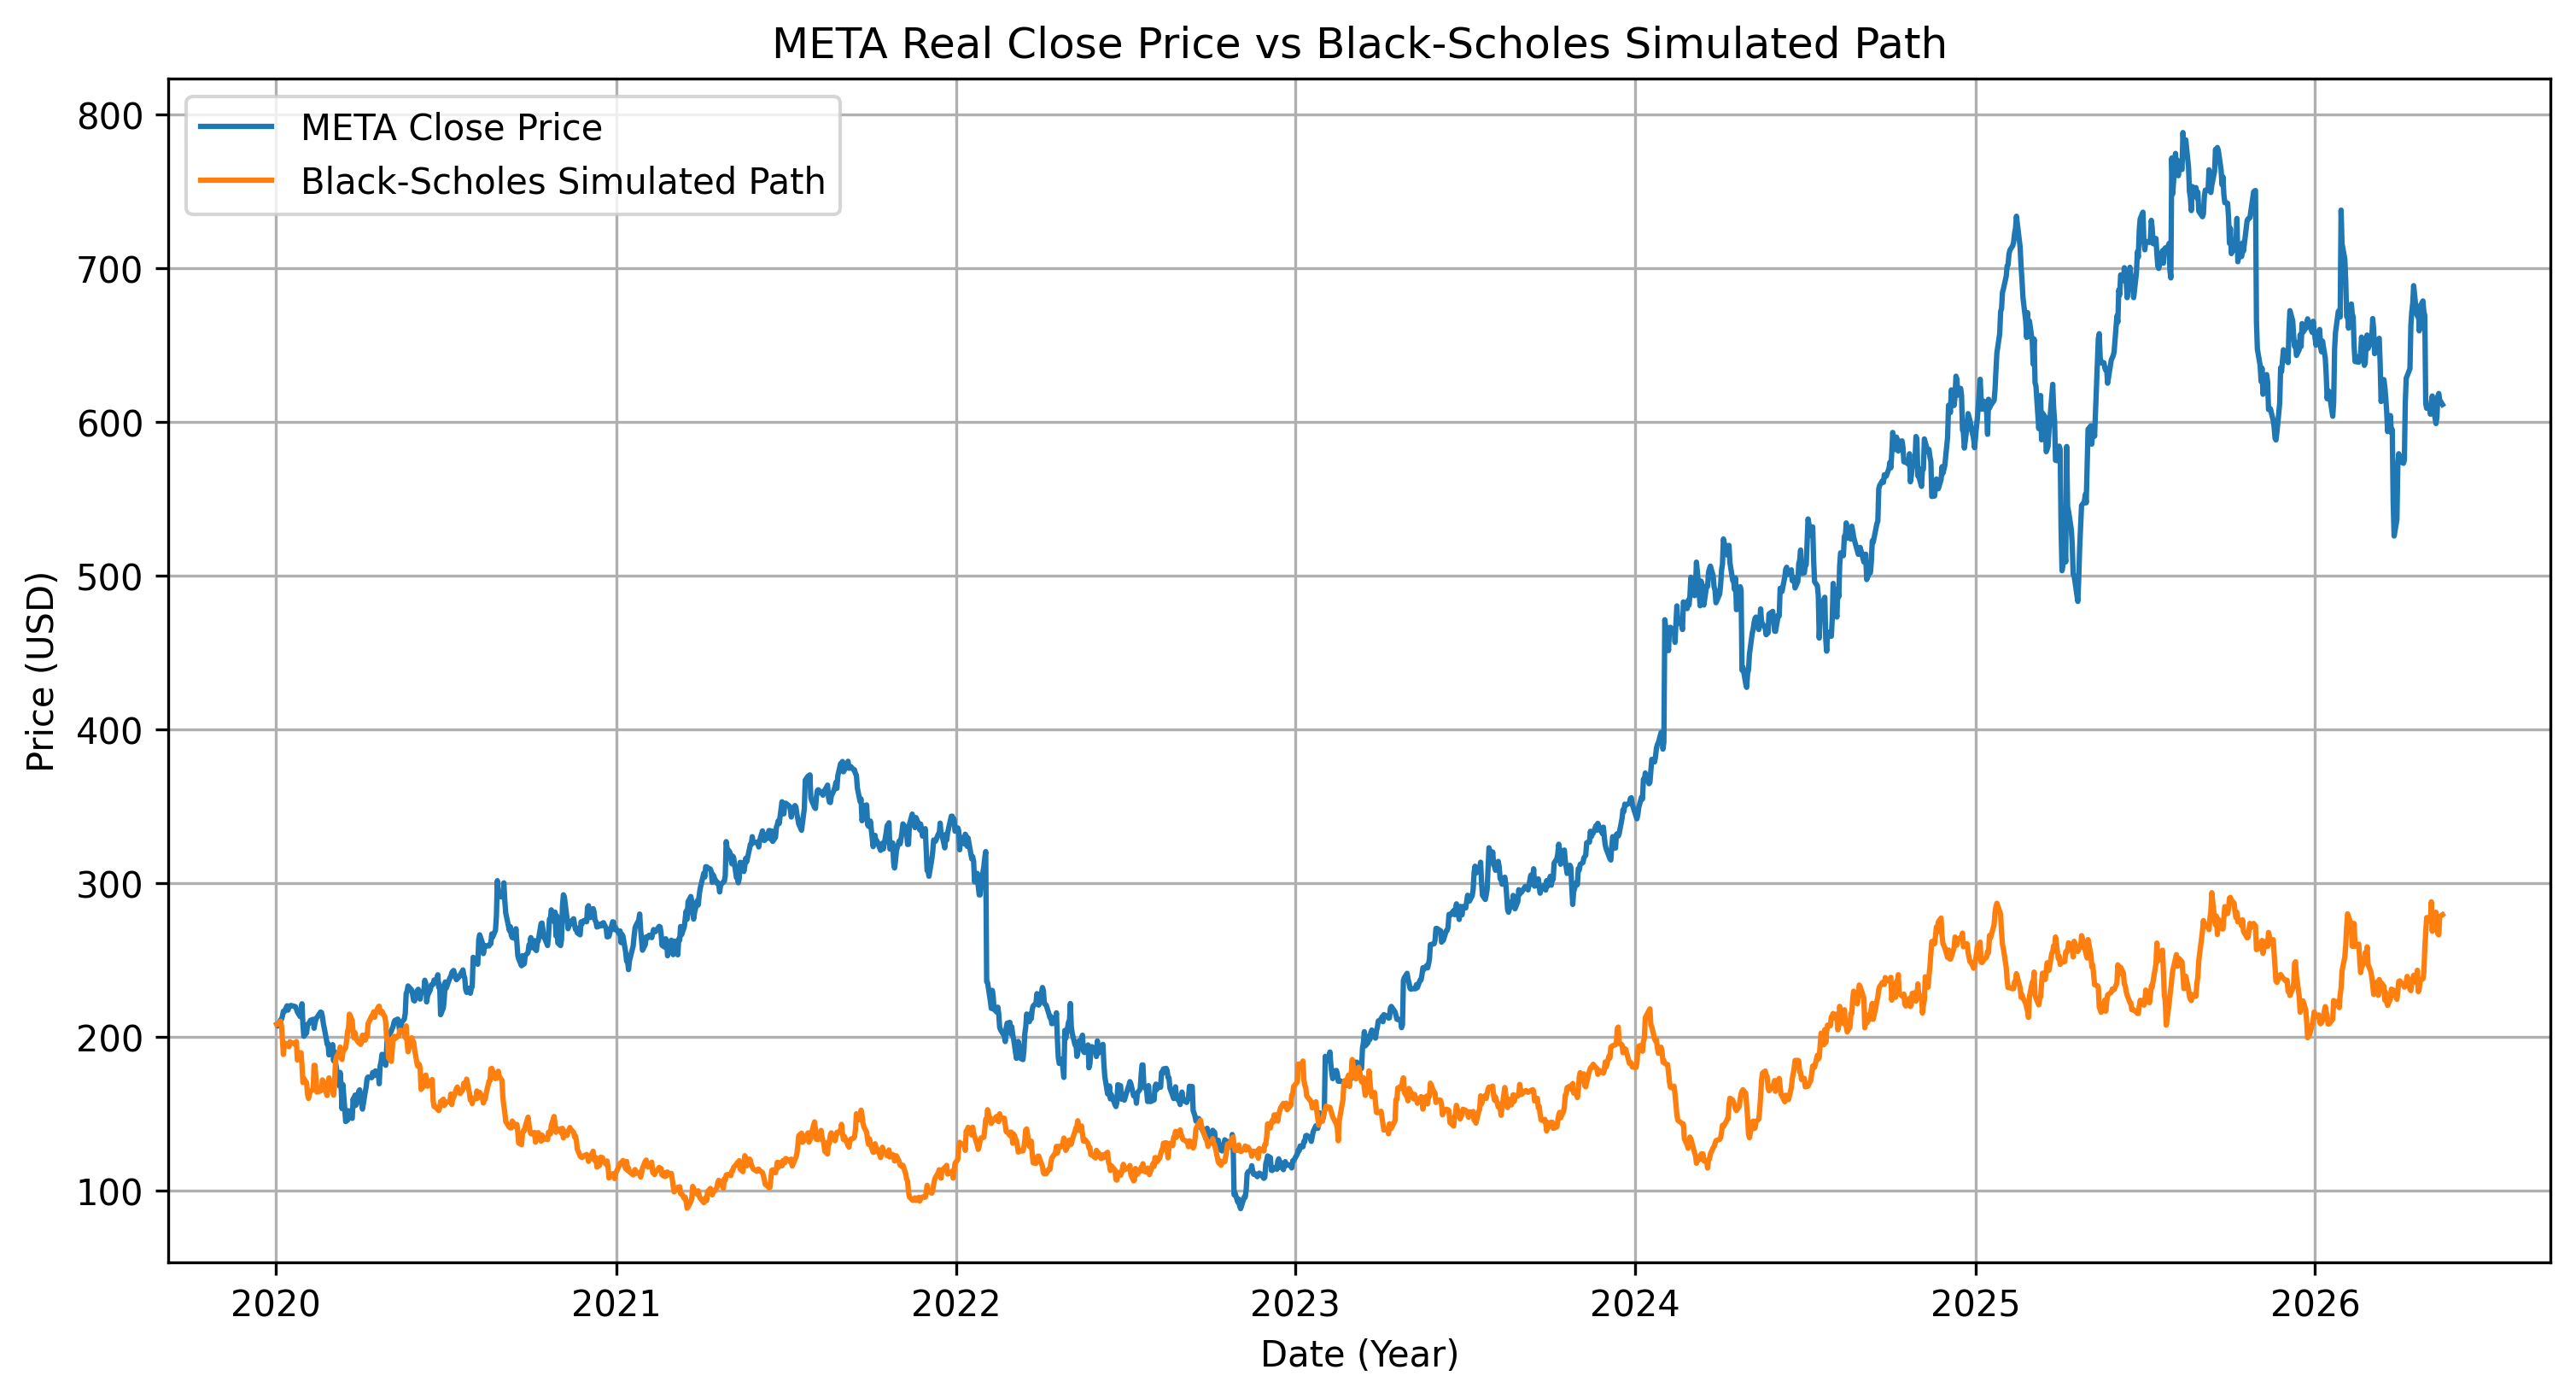
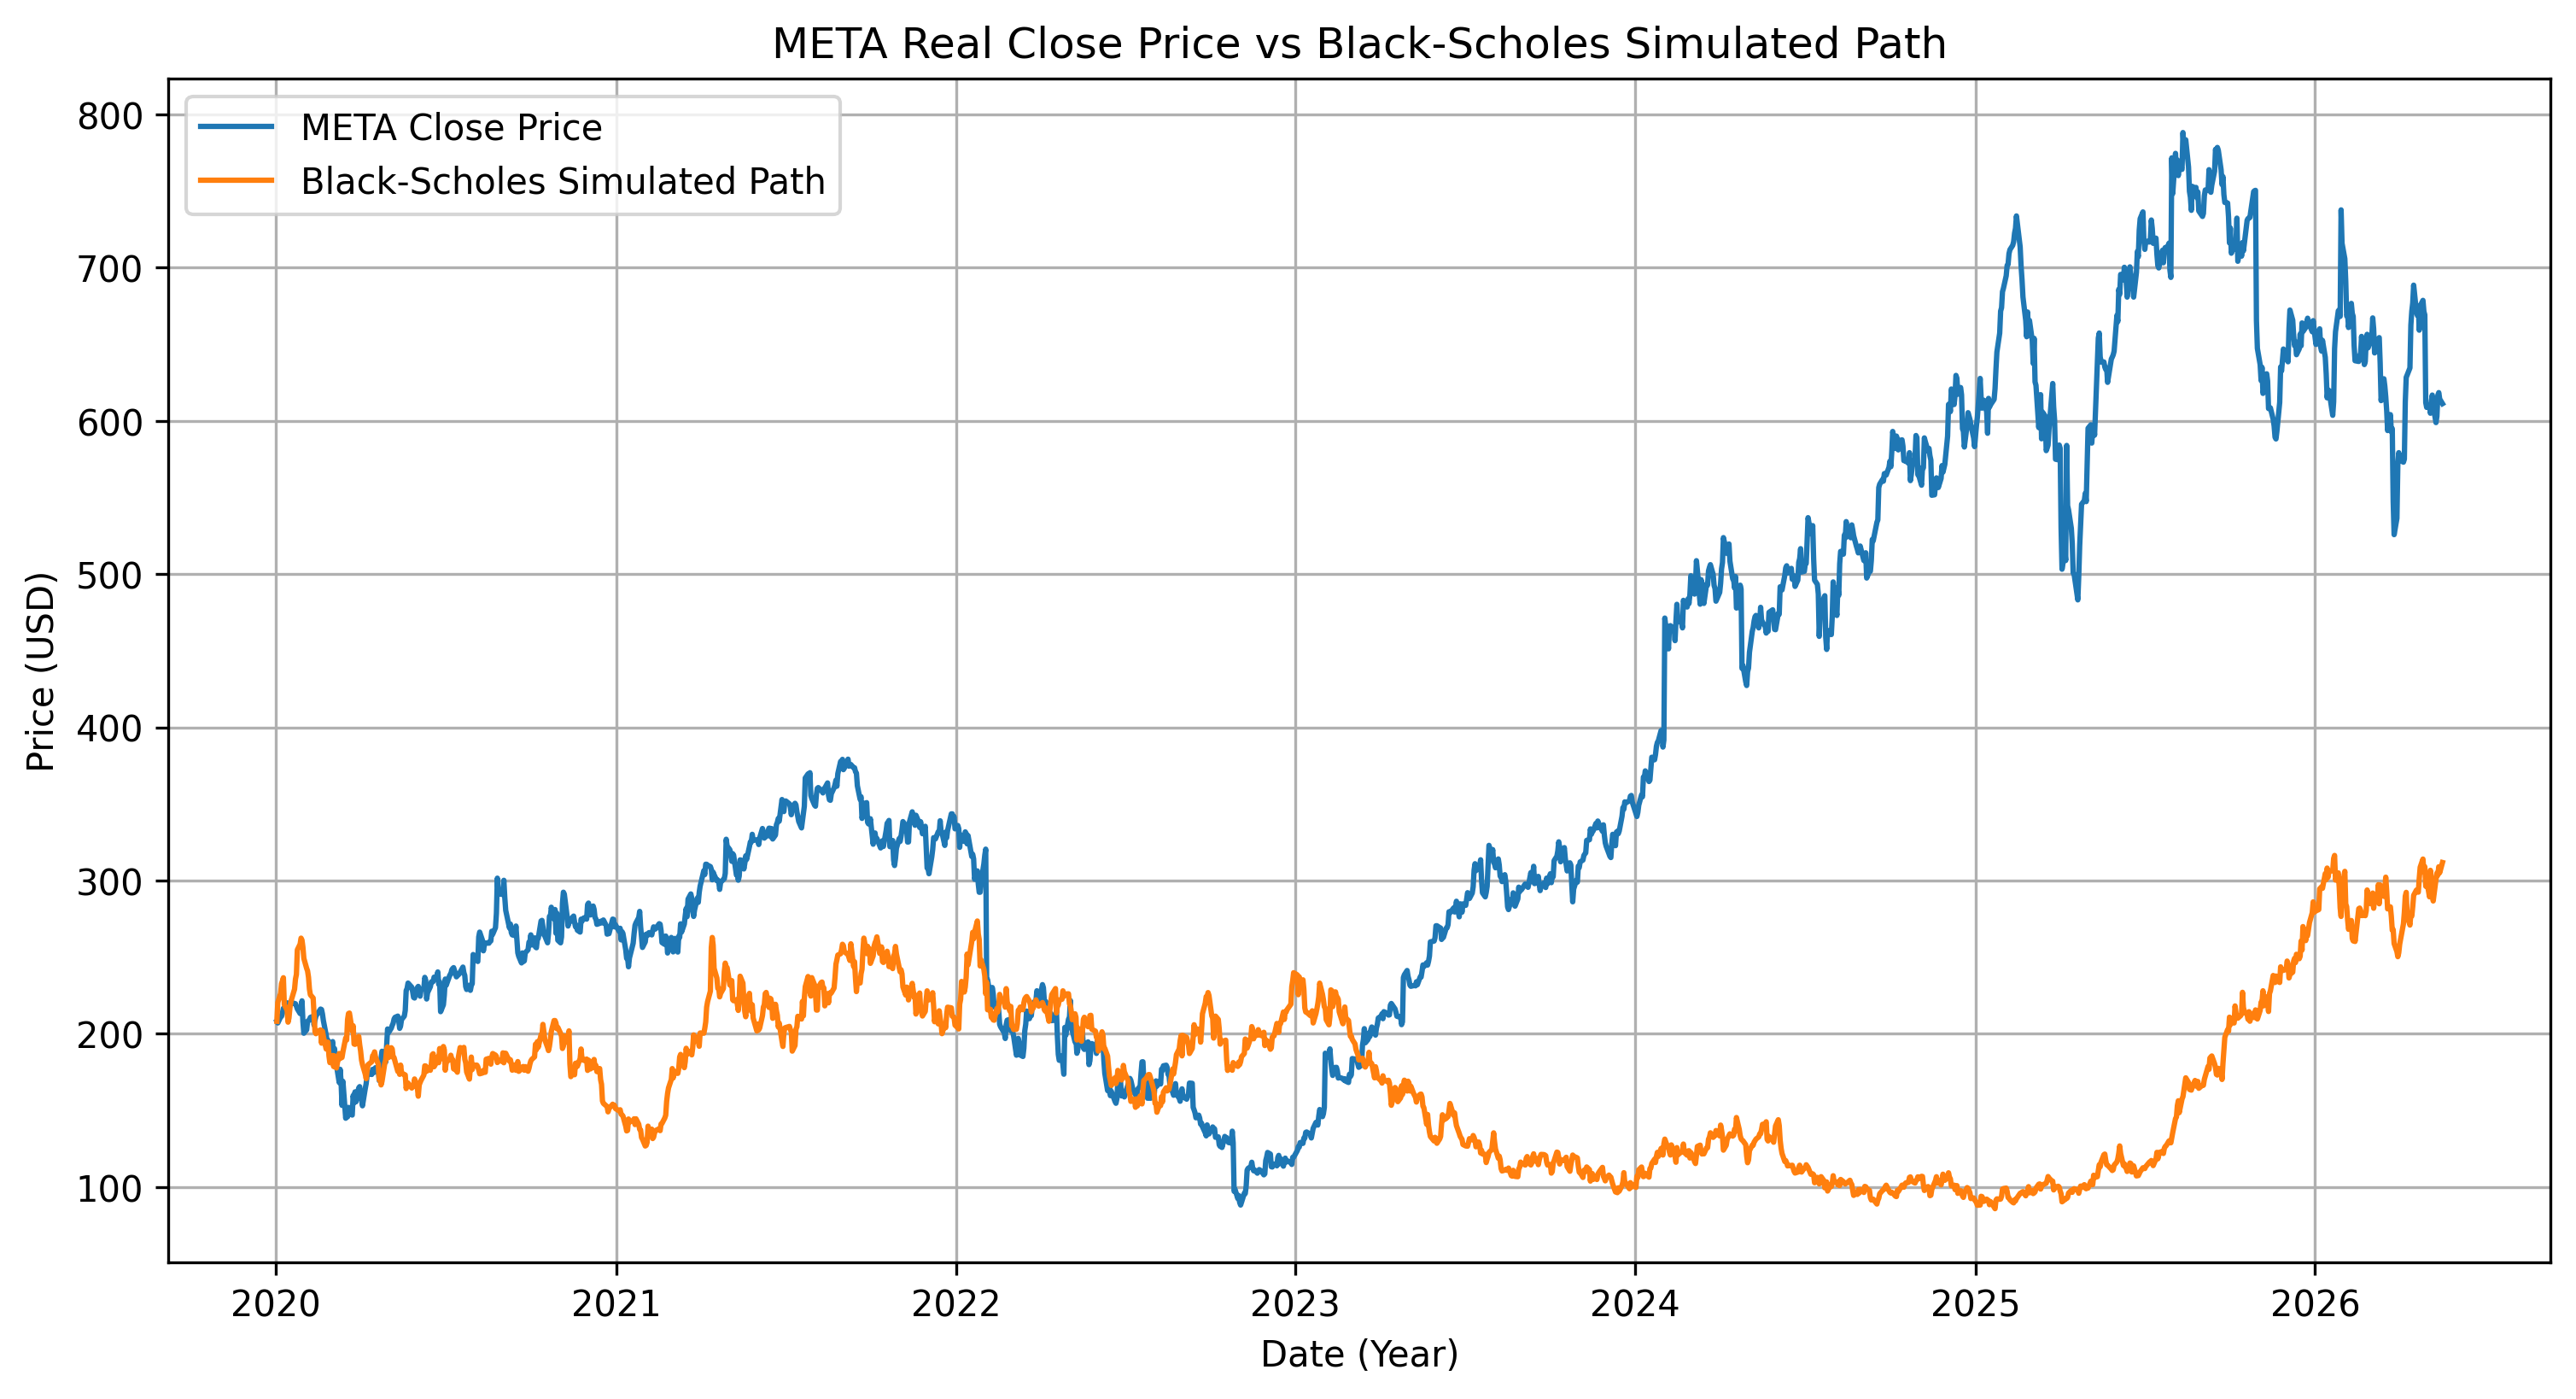
useless

diff --git a/paper/main.tex b/paper/main.tex
@@ -30,21 +30,23 @@ style=alphabetic
 
 The AI bubble.
 
+HELLOOOO
+
 
 \newpage
 
 \section*{Introduction}
 \addcontentsline{toc}{section}{Introduction}
 
-  The rapid development of artificial intelligence has had not only drastic impacts on our daily lives and future careers, but also a significant impact on many financial markets and enterprises. Indeed, AI has not only become a tool many of us use and rely on for research, and advice for individuals and governments but also a revolutionary tool in scientific experiements, models, and analysis. 
-  As a result, the investments and the development of such a tool has become a pivotal and global trajectory for the future of many fields.  In response to the extraordi-nary growth in demand for AI services and the associated chiptechnology, AI-focused companies have experienced soaringstock prices, which have raised concerns about the potentialformation of speculative bubbles. 
+  The rapid development of artificial intelligence has had a profound impact not only on daily life and future labor markets, but also on global financial markets and large technological enterprises. Artificial intelligence has evolved beyond a simple computational tool and has become increasingly integrated into research, scientific experimentation, optimization, and large-scale decision-making processes used by both corporations and governments.
 
+  As a result, investment in artificial intelligence technologies and infrastructure has grown dramatically over the past decade. In particular, the extraordinary increase in demand for AI services, cloud computing, and semiconductor technology has led to substantial growth in the market valuations of AI-focused firms. This rapid appreciation in stock prices has raised concerns regarding the possible formation of speculative bubbles within AI-related assets.
   
-  Major technology companies such as NVIDIA, META, or Microsoft have thus had a major increase in their stock prices in the past decade. 
+  Major technology companies such as NVIDIA, Meta Platforms, and Microsoft have experienced exceptional increases in their stock prices during the post-pandemic period, particularly following the emergence of large-scale generative AI systems.
 
-  This can lead to the following question :  how relevant are traditional financial models in predicting AI stock prices ? 
-  The Black-Scholes model, developed in 1973, presented a widely used option pricing formula. 
+This naturally raises the following question: to what extent can traditional financial models remain relevant in describing or predicting the dynamics of AI-related equities during speculative market periods?
 
+Among the most influential classical financial models is the Black--Scholes framework, developed in 1973, which introduced one of the most widely used option pricing formulas in quantitative finance. The model assumes that stock prices follow a geometric Brownian motion with constant volatility and continuous dynamics.
 
   \begin{figure}[H]
     \centering
@@ -53,11 +55,14 @@ The AI bubble.
     \label{fig:meta_price}
   \end{figure}
 
-As shown in Figure~\ref{fig:meta_price}, META experienced substantial volatility during the post-pandemic AI expansion period.
+  As illustrated in Figure~\ref{fig:meta_price}, META experienced substantial volatility during the post-pandemic AI expansion period. Such behavior raises important questions regarding the suitability of traditional diffusion-based models under highly speculative market conditions characterized by volatility clustering, rapid price appreciation, and abrupt market corrections.
 
-\section*{Black-Scholes Equation}
-\addcontentsline{toc}{section}{Black-Scholes Equation}
+  This paper investigates whether classical stochastic models such as Black--Scholes remain informative in the context of AI-related equities, and explores the extent to which more advanced models incorporating stochastic volatility or jump dynamics may better capture the statistical behavior of speculative assets.
 
+\section*{Black-Scholes Model}
+\addcontentsline{toc}{section}{Black-Scholes Model}
+
+\subsection{Black-Scholes Formula for Option Pricing}
  In 1973, Fisher Black and Myron Scholes published their groundbreaking work option pricing. Indeed, in their article "The Pricing of Options and Corporate Liabilities" \cite{black1973pricing}, they derived the Black-Scholes formula for option pricing:
  \begin{equation}
     C^{BS}(t, S; r, \sigma, K, T) := S \Phi(d_1) - K e^{-r(T-t)} \Phi(d_2)
@@ -65,6 +70,8 @@ As shown in Figure~\ref{fig:meta_price}, META experienced substantial volatility
  \end{equation}
  where $\Phi$ denotes the standard normal distribution (df), $r$ represents the continuously compounded risk -free interest rate, $\sigma$ denotes the volatility of the underlying stock, and where 
   $$d_1 = \frac{\ln\frac{S}{K} + (r+\frac{1}{2}\sigma^2)(T-t)}{\sigma \sqrt{T-t}} \qquad d_2 = d_1 - \sigma \sqrt{T-t}$$
+
+  Here, $K$ is the premium, while T is the maturity of the option. 
 
   We will use standard market practices where time is measured in years and $r$ and $\sigma$ are expressed in annualized terms.
 
@@ -76,12 +83,13 @@ As shown in Figure~\ref{fig:meta_price}, META experienced substantial volatility
     \label{BS: Risk-Factor Changes}
   \end{equation}
 
+  \subsection{Geometric Brownian Motion for Stock Prices}
 
   \begin{figure}[H]
     \centering
     \includegraphics[width=0.8\textwidth]{../figures/meta_close_price_vs_BS_path.png}
     \caption{META closing stock price vs Black Scholes Simulated path since 2020.}
-    \label{fig:meta_price}
+    \label{fig:meta_BS_price}
   \end{figure}
 
 \section*{New Methods}